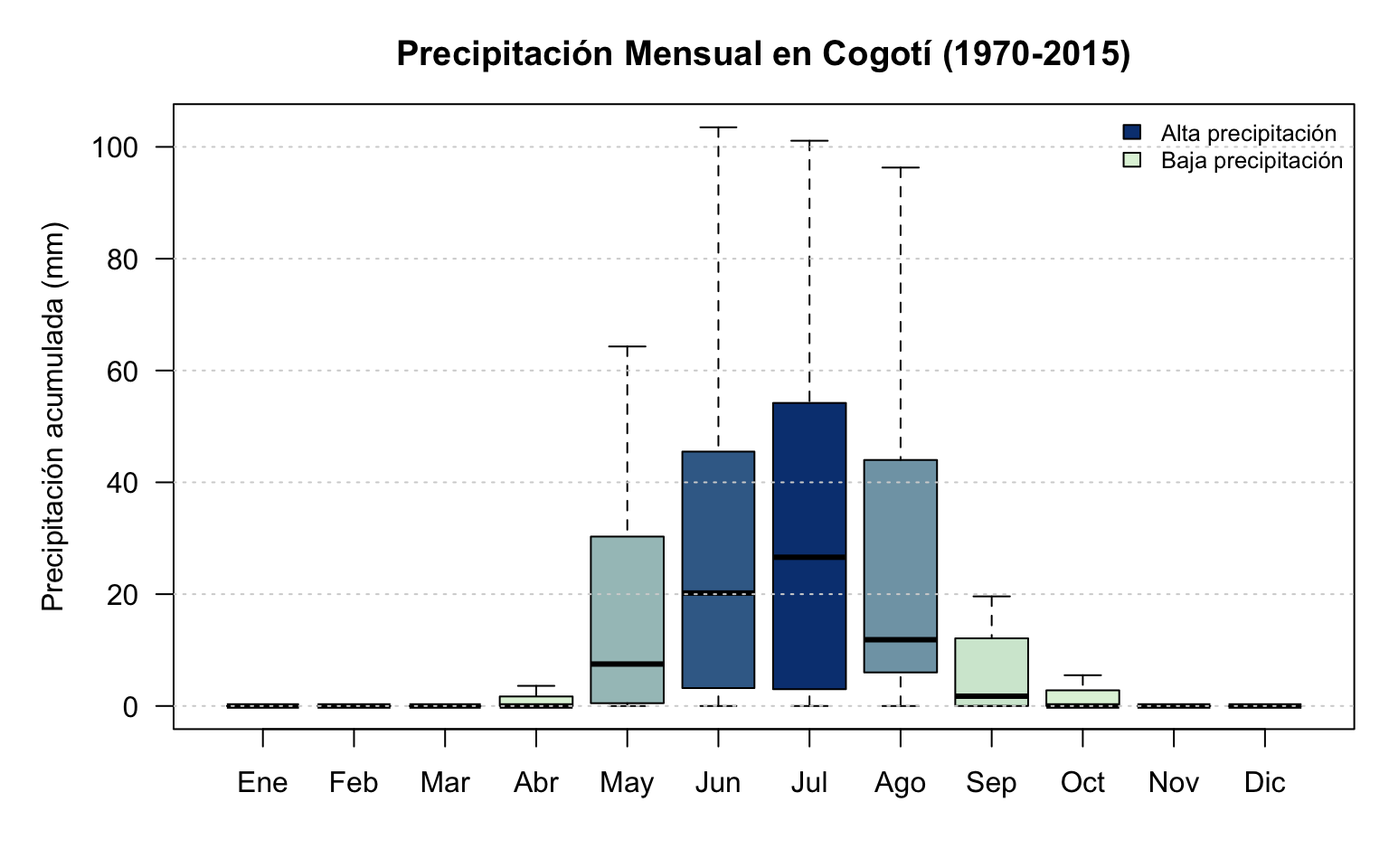
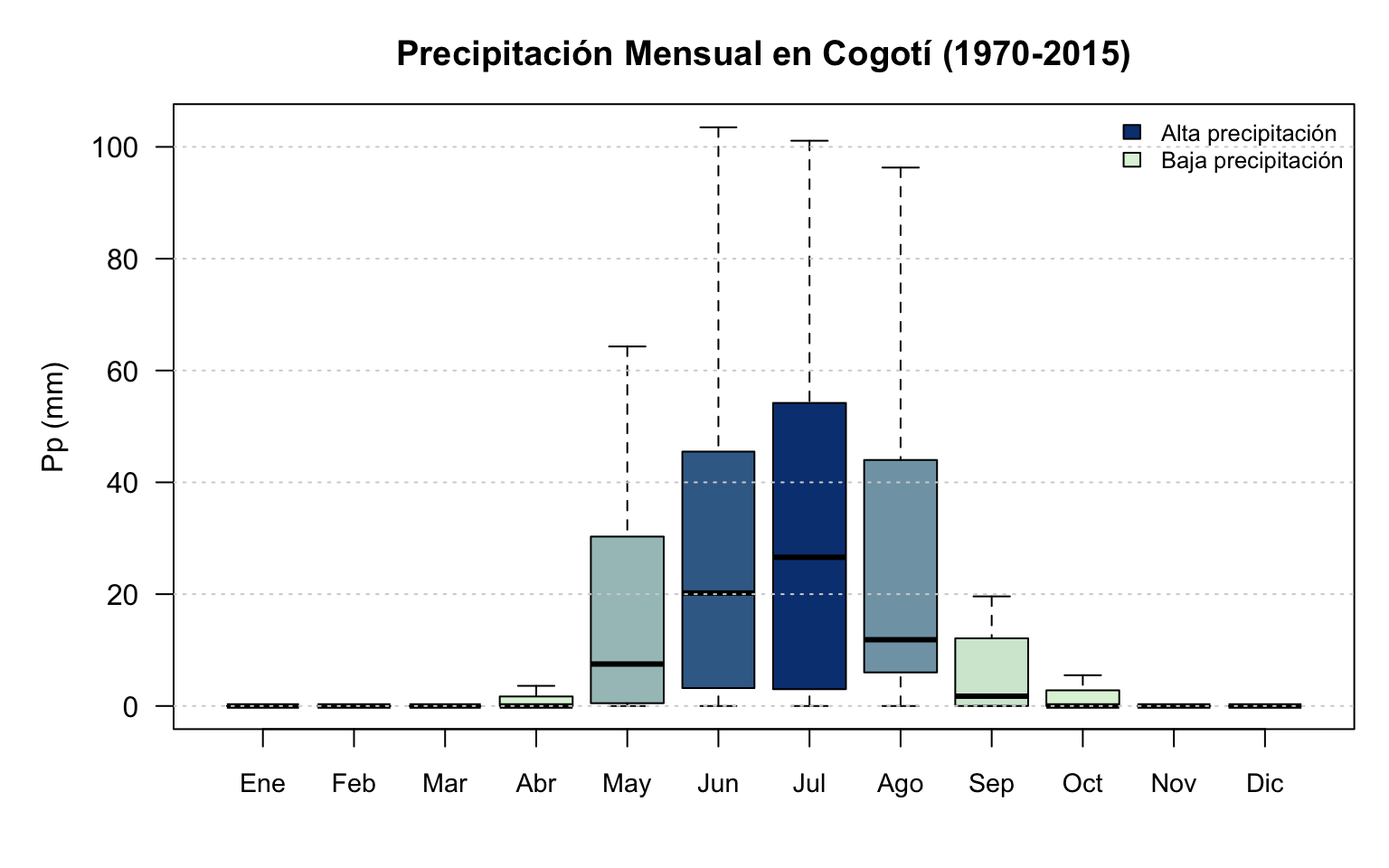
ajuste de graficos spei

diff --git a/docs/spei.html b/docs/spei.html
@@ -193,41 +193,36 @@ pre > code.sourceCode > span > a:first-child::before { text-decoration: underlin
 <span id="cb1-3"><a href="#cb1-3" aria-hidden="true" tabindex="-1"></a></span>
 <span id="cb1-4"><a href="#cb1-4" aria-hidden="true" tabindex="-1"></a><span class="co"># 1. Cargar paquetes</span></span>
 <span id="cb1-5"><a href="#cb1-5" aria-hidden="true" tabindex="-1"></a><span class="cf">if</span> (<span class="sc">!</span><span class="fu">require</span>(<span class="st">"pacman"</span>)) <span class="fu">install.packages</span>(<span class="st">"pacman"</span>)</span>
-<span id="cb1-6"><a href="#cb1-6" aria-hidden="true" tabindex="-1"></a>pacman<span class="sc">::</span><span class="fu">p_load</span>(tidyverse, SPEI, lubridate, fs, here, purrr)</span>
-<span id="cb1-7"><a href="#cb1-7" aria-hidden="true" tabindex="-1"></a></span>
-<span id="cb1-8"><a href="#cb1-8" aria-hidden="true" tabindex="-1"></a><span class="co"># 2. Definir Rutas de Datos Crudos</span></span>
-<span id="cb1-9"><a href="#cb1-9" aria-hidden="true" tabindex="-1"></a><span class="co"># Asumimos que los archivos están en "data/data_raw/" con nombres simplificados</span></span>
-<span id="cb1-10"><a href="#cb1-10" aria-hidden="true" tabindex="-1"></a><span class="co"># (Si usas los nombres largos originales, cámbialos aquí)</span></span>
-<span id="cb1-11"><a href="#cb1-11" aria-hidden="true" tabindex="-1"></a></span>
-<span id="cb1-12"><a href="#cb1-12" aria-hidden="true" tabindex="-1"></a><span class="co"># Estación Las Ramadas</span></span>
-<span id="cb1-13"><a href="#cb1-13" aria-hidden="true" tabindex="-1"></a>ruta_ram_pp   <span class="ot">&lt;-</span> here<span class="sc">::</span><span class="fu">here</span>(<span class="st">"data"</span>, <span class="st">"data_raw"</span>, <span class="st">"ramadas_pmen.csv"</span>)</span>
-<span id="cb1-14"><a href="#cb1-14" aria-hidden="true" tabindex="-1"></a>ruta_ram_tmax <span class="ot">&lt;-</span> here<span class="sc">::</span><span class="fu">here</span>(<span class="st">"data"</span>, <span class="st">"data_raw"</span>, <span class="st">"ramadas_tmax.csv"</span>)</span>
-<span id="cb1-15"><a href="#cb1-15" aria-hidden="true" tabindex="-1"></a>ruta_ram_tmin <span class="ot">&lt;-</span> here<span class="sc">::</span><span class="fu">here</span>(<span class="st">"data"</span>, <span class="st">"data_raw"</span>, <span class="st">"ramadas_tmin.csv"</span>)</span>
-<span id="cb1-16"><a href="#cb1-16" aria-hidden="true" tabindex="-1"></a></span>
-<span id="cb1-17"><a href="#cb1-17" aria-hidden="true" tabindex="-1"></a><span class="co"># Estación Cogotí</span></span>
-<span id="cb1-18"><a href="#cb1-18" aria-hidden="true" tabindex="-1"></a>ruta_cog_pp   <span class="ot">&lt;-</span> here<span class="sc">::</span><span class="fu">here</span>(<span class="st">"data"</span>, <span class="st">"data_raw"</span>, <span class="st">"cogoti_pmen.csv"</span>)</span>
-<span id="cb1-19"><a href="#cb1-19" aria-hidden="true" tabindex="-1"></a>ruta_cog_tmax <span class="ot">&lt;-</span> here<span class="sc">::</span><span class="fu">here</span>(<span class="st">"data"</span>, <span class="st">"data_raw"</span>, <span class="st">"cogoti_tmax.csv"</span>)</span>
-<span id="cb1-20"><a href="#cb1-20" aria-hidden="true" tabindex="-1"></a>ruta_cog_tmin <span class="ot">&lt;-</span> here<span class="sc">::</span><span class="fu">here</span>(<span class="st">"data"</span>, <span class="st">"data_raw"</span>, <span class="st">"cogoti_tmin.csv"</span>)</span>
+<span id="cb1-6"><a href="#cb1-6" aria-hidden="true" tabindex="-1"></a><span class="co"># Agregamos 'gridExtra' y 'grid' para poder guardar tablas como imágenes</span></span>
+<span id="cb1-7"><a href="#cb1-7" aria-hidden="true" tabindex="-1"></a>pacman<span class="sc">::</span><span class="fu">p_load</span>(tidyverse, SPEI, lubridate, fs, here, knitr, gridExtra, grid)</span>
+<span id="cb1-8"><a href="#cb1-8" aria-hidden="true" tabindex="-1"></a></span>
+<span id="cb1-9"><a href="#cb1-9" aria-hidden="true" tabindex="-1"></a><span class="co"># 2. Definir Rutas de Datos Crudos</span></span>
+<span id="cb1-10"><a href="#cb1-10" aria-hidden="true" tabindex="-1"></a>ruta_ram_pp   <span class="ot">&lt;-</span> here<span class="sc">::</span><span class="fu">here</span>(<span class="st">"data"</span>, <span class="st">"data_raw"</span>, <span class="st">"ramadas_pmen.csv"</span>)</span>
+<span id="cb1-11"><a href="#cb1-11" aria-hidden="true" tabindex="-1"></a>ruta_ram_tmax <span class="ot">&lt;-</span> here<span class="sc">::</span><span class="fu">here</span>(<span class="st">"data"</span>, <span class="st">"data_raw"</span>, <span class="st">"ramadas_tmax.csv"</span>)</span>
+<span id="cb1-12"><a href="#cb1-12" aria-hidden="true" tabindex="-1"></a>ruta_ram_tmin <span class="ot">&lt;-</span> here<span class="sc">::</span><span class="fu">here</span>(<span class="st">"data"</span>, <span class="st">"data_raw"</span>, <span class="st">"ramadas_tmin.csv"</span>)</span>
+<span id="cb1-13"><a href="#cb1-13" aria-hidden="true" tabindex="-1"></a></span>
+<span id="cb1-14"><a href="#cb1-14" aria-hidden="true" tabindex="-1"></a>ruta_cog_pp   <span class="ot">&lt;-</span> here<span class="sc">::</span><span class="fu">here</span>(<span class="st">"data"</span>, <span class="st">"data_raw"</span>, <span class="st">"cogoti_pmen.csv"</span>)</span>
+<span id="cb1-15"><a href="#cb1-15" aria-hidden="true" tabindex="-1"></a>ruta_cog_tmax <span class="ot">&lt;-</span> here<span class="sc">::</span><span class="fu">here</span>(<span class="st">"data"</span>, <span class="st">"data_raw"</span>, <span class="st">"cogoti_tmax.csv"</span>)</span>
+<span id="cb1-16"><a href="#cb1-16" aria-hidden="true" tabindex="-1"></a>ruta_cog_tmin <span class="ot">&lt;-</span> here<span class="sc">::</span><span class="fu">here</span>(<span class="st">"data"</span>, <span class="st">"data_raw"</span>, <span class="st">"cogoti_tmin.csv"</span>)</span>
+<span id="cb1-17"><a href="#cb1-17" aria-hidden="true" tabindex="-1"></a></span>
+<span id="cb1-18"><a href="#cb1-18" aria-hidden="true" tabindex="-1"></a><span class="co"># Rutas de Salida</span></span>
+<span id="cb1-19"><a href="#cb1-19" aria-hidden="true" tabindex="-1"></a>dir_figuras   <span class="ot">&lt;-</span> here<span class="sc">::</span><span class="fu">here</span>(<span class="st">"figuras"</span>)</span>
+<span id="cb1-20"><a href="#cb1-20" aria-hidden="true" tabindex="-1"></a>dir_data_proc <span class="ot">&lt;-</span> here<span class="sc">::</span><span class="fu">here</span>(<span class="st">"data"</span>, <span class="st">"data_procesada"</span>)</span>
 <span id="cb1-21"><a href="#cb1-21" aria-hidden="true" tabindex="-1"></a></span>
-<span id="cb1-22"><a href="#cb1-22" aria-hidden="true" tabindex="-1"></a><span class="co"># Rutas de Salida</span></span>
-<span id="cb1-23"><a href="#cb1-23" aria-hidden="true" tabindex="-1"></a>dir_figuras   <span class="ot">&lt;-</span> here<span class="sc">::</span><span class="fu">here</span>(<span class="st">"figuras"</span>)</span>
-<span id="cb1-24"><a href="#cb1-24" aria-hidden="true" tabindex="-1"></a>dir_data_proc <span class="ot">&lt;-</span> here<span class="sc">::</span><span class="fu">here</span>(<span class="st">"data"</span>, <span class="st">"data_procesada"</span>)</span>
+<span id="cb1-22"><a href="#cb1-22" aria-hidden="true" tabindex="-1"></a><span class="co"># 3. Verificación rápida</span></span>
+<span id="cb1-23"><a href="#cb1-23" aria-hidden="true" tabindex="-1"></a>archivos_requeridos <span class="ot">&lt;-</span> <span class="fu">c</span>(ruta_ram_pp, ruta_ram_tmax, ruta_ram_tmin, </span>
+<span id="cb1-24"><a href="#cb1-24" aria-hidden="true" tabindex="-1"></a>                         ruta_cog_pp, ruta_cog_tmax, ruta_cog_tmin)</span>
 <span id="cb1-25"><a href="#cb1-25" aria-hidden="true" tabindex="-1"></a></span>
-<span id="cb1-26"><a href="#cb1-26" aria-hidden="true" tabindex="-1"></a><span class="co"># 3. Verificación rápida</span></span>
-<span id="cb1-27"><a href="#cb1-27" aria-hidden="true" tabindex="-1"></a>archivos_requeridos <span class="ot">&lt;-</span> <span class="fu">c</span>(ruta_ram_pp, ruta_ram_tmax, ruta_ram_tmin, </span>
-<span id="cb1-28"><a href="#cb1-28" aria-hidden="true" tabindex="-1"></a>                         ruta_cog_pp, ruta_cog_tmax, ruta_cog_tmin)</span>
-<span id="cb1-29"><a href="#cb1-29" aria-hidden="true" tabindex="-1"></a></span>
-<span id="cb1-30"><a href="#cb1-30" aria-hidden="true" tabindex="-1"></a>existencia <span class="ot">&lt;-</span> <span class="fu">file.exists</span>(archivos_requeridos)</span>
-<span id="cb1-31"><a href="#cb1-31" aria-hidden="true" tabindex="-1"></a><span class="cf">if</span> (<span class="sc">!</span><span class="fu">all</span>(existencia)) {</span>
-<span id="cb1-32"><a href="#cb1-32" aria-hidden="true" tabindex="-1"></a>  <span class="fu">stop</span>(<span class="st">"ERROR: Faltan archivos en data/data_raw/. Verifica los nombres.</span><span class="sc">\n</span><span class="st">Faltan: "</span>, </span>
-<span id="cb1-33"><a href="#cb1-33" aria-hidden="true" tabindex="-1"></a>       <span class="fu">paste</span>(archivos_requeridos[<span class="sc">!</span>existencia], <span class="at">collapse =</span> <span class="st">"</span><span class="sc">\n</span><span class="st">"</span>))</span>
-<span id="cb1-34"><a href="#cb1-34" aria-hidden="true" tabindex="-1"></a>}</span>
-<span id="cb1-35"><a href="#cb1-35" aria-hidden="true" tabindex="-1"></a></span>
-<span id="cb1-36"><a href="#cb1-36" aria-hidden="true" tabindex="-1"></a><span class="co"># Crear carpetas de salida</span></span>
-<span id="cb1-37"><a href="#cb1-37" aria-hidden="true" tabindex="-1"></a><span class="cf">if</span> (<span class="sc">!</span><span class="fu">dir.exists</span>(dir_figuras)) <span class="fu">dir.create</span>(dir_figuras, <span class="at">recursive =</span> <span class="cn">TRUE</span>)</span>
-<span id="cb1-38"><a href="#cb1-38" aria-hidden="true" tabindex="-1"></a><span class="cf">if</span> (<span class="sc">!</span><span class="fu">dir.exists</span>(dir_data_proc)) <span class="fu">dir.create</span>(dir_data_proc, <span class="at">recursive =</span> <span class="cn">TRUE</span>)</span>
-<span id="cb1-39"><a href="#cb1-39" aria-hidden="true" tabindex="-1"></a></span>
-<span id="cb1-40"><a href="#cb1-40" aria-hidden="true" tabindex="-1"></a><span class="fu">message</span>(<span class="st">"Configuración exitosa. Archivos crudos encontrados."</span>)</span></code><button title="Copiar al portapapeles" class="code-copy-button"><i class="bi"></i></button></pre></div>
+<span id="cb1-26"><a href="#cb1-26" aria-hidden="true" tabindex="-1"></a><span class="cf">if</span> (<span class="sc">!</span><span class="fu">all</span>(<span class="fu">file.exists</span>(archivos_requeridos))) {</span>
+<span id="cb1-27"><a href="#cb1-27" aria-hidden="true" tabindex="-1"></a>  faltantes <span class="ot">&lt;-</span> archivos_requeridos[<span class="sc">!</span><span class="fu">file.exists</span>(archivos_requeridos)]</span>
+<span id="cb1-28"><a href="#cb1-28" aria-hidden="true" tabindex="-1"></a>  <span class="fu">stop</span>(<span class="st">"ERROR: Faltan archivos en data/data_raw/:</span><span class="sc">\n</span><span class="st">"</span>, <span class="fu">paste</span>(faltantes, <span class="at">collapse =</span> <span class="st">"</span><span class="sc">\n</span><span class="st">"</span>))</span>
+<span id="cb1-29"><a href="#cb1-29" aria-hidden="true" tabindex="-1"></a>}</span>
+<span id="cb1-30"><a href="#cb1-30" aria-hidden="true" tabindex="-1"></a></span>
+<span id="cb1-31"><a href="#cb1-31" aria-hidden="true" tabindex="-1"></a><span class="co"># Crear carpetas de salida</span></span>
+<span id="cb1-32"><a href="#cb1-32" aria-hidden="true" tabindex="-1"></a><span class="cf">if</span> (<span class="sc">!</span><span class="fu">dir.exists</span>(dir_figuras)) <span class="fu">dir.create</span>(dir_figuras, <span class="at">recursive =</span> <span class="cn">TRUE</span>)</span>
+<span id="cb1-33"><a href="#cb1-33" aria-hidden="true" tabindex="-1"></a><span class="cf">if</span> (<span class="sc">!</span><span class="fu">dir.exists</span>(dir_data_proc)) <span class="fu">dir.create</span>(dir_data_proc, <span class="at">recursive =</span> <span class="cn">TRUE</span>)</span>
+<span id="cb1-34"><a href="#cb1-34" aria-hidden="true" tabindex="-1"></a></span>
+<span id="cb1-35"><a href="#cb1-35" aria-hidden="true" tabindex="-1"></a><span class="fu">message</span>(<span class="st">"Configuración exitosa. Archivos encontrados."</span>)</span></code><button title="Copiar al portapapeles" class="code-copy-button"><i class="bi"></i></button></pre></div>
 </details>
 </div>
 </section>
@@ -237,54 +232,52 @@ pre > code.sourceCode > span > a:first-child::before { text-decoration: underlin
 <div class="cell">
 <details class="code-fold">
 <summary>Código</summary>
-<div class="sourceCode cell-code" id="cb2"><pre class="sourceCode r code-with-copy"><code class="sourceCode r"><span id="cb2-1"><a href="#cb2-1" aria-hidden="true" tabindex="-1"></a><span class="co"># Función auxiliar para leer y preparar cada archivo</span></span>
-<span id="cb2-2"><a href="#cb2-2" aria-hidden="true" tabindex="-1"></a><span class="co"># Lee el CSV, selecciona solo año/mes/valor y renombra la columna valor</span></span>
-<span id="cb2-3"><a href="#cb2-3" aria-hidden="true" tabindex="-1"></a>leer_variable <span class="ot">&lt;-</span> <span class="cf">function</span>(ruta, nombre_var) {</span>
-<span id="cb2-4"><a href="#cb2-4" aria-hidden="true" tabindex="-1"></a>  <span class="fu">read_csv</span>(ruta, <span class="at">show_col_types =</span> <span class="cn">FALSE</span>) <span class="sc">%&gt;%</span></span>
-<span id="cb2-5"><a href="#cb2-5" aria-hidden="true" tabindex="-1"></a>    <span class="fu">select</span>(agno, mes, valor) <span class="sc">%&gt;%</span></span>
-<span id="cb2-6"><a href="#cb2-6" aria-hidden="true" tabindex="-1"></a>    <span class="fu">rename</span>(<span class="sc">!!</span><span class="at">nombre_var :=</span> valor) <span class="co"># Renombra 'valor' a 'pmen', 'tmax' o 'tmin'</span></span>
-<span id="cb2-7"><a href="#cb2-7" aria-hidden="true" tabindex="-1"></a>}</span>
-<span id="cb2-8"><a href="#cb2-8" aria-hidden="true" tabindex="-1"></a></span>
-<span id="cb2-9"><a href="#cb2-9" aria-hidden="true" tabindex="-1"></a><span class="co"># --- PROCESAMIENTO LAS RAMADAS ---</span></span>
-<span id="cb2-10"><a href="#cb2-10" aria-hidden="true" tabindex="-1"></a>ram_pp   <span class="ot">&lt;-</span> <span class="fu">leer_variable</span>(ruta_ram_pp, <span class="st">"pmen"</span>)</span>
-<span id="cb2-11"><a href="#cb2-11" aria-hidden="true" tabindex="-1"></a>ram_tmax <span class="ot">&lt;-</span> <span class="fu">leer_variable</span>(ruta_ram_tmax, <span class="st">"tmax"</span>)</span>
-<span id="cb2-12"><a href="#cb2-12" aria-hidden="true" tabindex="-1"></a>ram_tmin <span class="ot">&lt;-</span> <span class="fu">leer_variable</span>(ruta_ram_tmin, <span class="st">"tmin"</span>)</span>
-<span id="cb2-13"><a href="#cb2-13" aria-hidden="true" tabindex="-1"></a></span>
-<span id="cb2-14"><a href="#cb2-14" aria-hidden="true" tabindex="-1"></a><span class="co"># Unir las 3 variables (full_join para no perder meses si falta algún dato)</span></span>
-<span id="cb2-15"><a href="#cb2-15" aria-hidden="true" tabindex="-1"></a>df_ramadas <span class="ot">&lt;-</span> <span class="fu">list</span>(ram_pp, ram_tmax, ram_tmin) <span class="sc">%&gt;%</span></span>
-<span id="cb2-16"><a href="#cb2-16" aria-hidden="true" tabindex="-1"></a>  <span class="fu">reduce</span>(full_join, <span class="at">by =</span> <span class="fu">c</span>(<span class="st">"agno"</span>, <span class="st">"mes"</span>)) <span class="sc">%&gt;%</span></span>
-<span id="cb2-17"><a href="#cb2-17" aria-hidden="true" tabindex="-1"></a>  <span class="fu">mutate</span>(<span class="at">estacion =</span> <span class="st">"Las Ramadas"</span>)</span>
-<span id="cb2-18"><a href="#cb2-18" aria-hidden="true" tabindex="-1"></a></span>
-<span id="cb2-19"><a href="#cb2-19" aria-hidden="true" tabindex="-1"></a><span class="co"># --- PROCESAMIENTO COGOTÍ ---</span></span>
-<span id="cb2-20"><a href="#cb2-20" aria-hidden="true" tabindex="-1"></a>cog_pp   <span class="ot">&lt;-</span> <span class="fu">leer_variable</span>(ruta_cog_pp, <span class="st">"pmen"</span>)</span>
-<span id="cb2-21"><a href="#cb2-21" aria-hidden="true" tabindex="-1"></a>cog_tmax <span class="ot">&lt;-</span> <span class="fu">leer_variable</span>(ruta_cog_tmax, <span class="st">"tmax"</span>)</span>
-<span id="cb2-22"><a href="#cb2-22" aria-hidden="true" tabindex="-1"></a>cog_tmin <span class="ot">&lt;-</span> <span class="fu">leer_variable</span>(ruta_cog_tmin, <span class="st">"tmin"</span>)</span>
-<span id="cb2-23"><a href="#cb2-23" aria-hidden="true" tabindex="-1"></a></span>
-<span id="cb2-24"><a href="#cb2-24" aria-hidden="true" tabindex="-1"></a>df_cogoti <span class="ot">&lt;-</span> <span class="fu">list</span>(cog_pp, cog_tmax, cog_tmin) <span class="sc">%&gt;%</span></span>
-<span id="cb2-25"><a href="#cb2-25" aria-hidden="true" tabindex="-1"></a>  <span class="fu">reduce</span>(full_join, <span class="at">by =</span> <span class="fu">c</span>(<span class="st">"agno"</span>, <span class="st">"mes"</span>)) <span class="sc">%&gt;%</span></span>
-<span id="cb2-26"><a href="#cb2-26" aria-hidden="true" tabindex="-1"></a>  <span class="fu">mutate</span>(<span class="at">estacion =</span> <span class="st">"Cogotí"</span>)</span>
-<span id="cb2-27"><a href="#cb2-27" aria-hidden="true" tabindex="-1"></a></span>
-<span id="cb2-28"><a href="#cb2-28" aria-hidden="true" tabindex="-1"></a><span class="co"># - --- UNIFICACIÓN Y CÁLCULOS ---</span></span>
-<span id="cb2-29"><a href="#cb2-29" aria-hidden="true" tabindex="-1"></a>datos <span class="ot">&lt;-</span> <span class="fu">bind_rows</span>(df_ramadas, df_cogoti) <span class="sc">%&gt;%</span></span>
-<span id="cb2-30"><a href="#cb2-30" aria-hidden="true" tabindex="-1"></a>  <span class="fu">mutate</span>(<span class="at">fecha =</span> <span class="fu">make_date</span>(agno, mes, <span class="dv">1</span>)) <span class="sc">%&gt;%</span></span>
-<span id="cb2-31"><a href="#cb2-31" aria-hidden="true" tabindex="-1"></a>  <span class="co"># --- CORRECCIÓN CLAVE AQUÍ ---</span></span>
-<span id="cb2-32"><a href="#cb2-32" aria-hidden="true" tabindex="-1"></a>  <span class="co"># Eliminamos filas sin temperatura ANTES de calcular hargreaves</span></span>
-<span id="cb2-33"><a href="#cb2-33" aria-hidden="true" tabindex="-1"></a>  <span class="fu">drop_na</span>(tmax, tmin) <span class="sc">%&gt;%</span></span>
-<span id="cb2-34"><a href="#cb2-34" aria-hidden="true" tabindex="-1"></a>  <span class="fu">mutate</span>(</span>
-<span id="cb2-35"><a href="#cb2-35" aria-hidden="true" tabindex="-1"></a>    <span class="co"># Ahora sí podemos calcular ETP sin errores</span></span>
-<span id="cb2-36"><a href="#cb2-36" aria-hidden="true" tabindex="-1"></a>    <span class="at">etp =</span> <span class="fu">hargreaves</span>(tmin, tmax, <span class="at">lat =</span> <span class="sc">-</span><span class="fl">31.0358</span>),</span>
-<span id="cb2-37"><a href="#cb2-37" aria-hidden="true" tabindex="-1"></a>    <span class="at">bal =</span> pmen <span class="sc">-</span> etp</span>
-<span id="cb2-38"><a href="#cb2-38" aria-hidden="true" tabindex="-1"></a>  ) <span class="sc">%&gt;%</span></span>
-<span id="cb2-39"><a href="#cb2-39" aria-hidden="true" tabindex="-1"></a>  <span class="co"># Limpiamos si falta precipitación o balance final</span></span>
-<span id="cb2-40"><a href="#cb2-40" aria-hidden="true" tabindex="-1"></a>  <span class="fu">drop_na</span>(bal) <span class="sc">%&gt;%</span></span>
-<span id="cb2-41"><a href="#cb2-41" aria-hidden="true" tabindex="-1"></a>  <span class="fu">arrange</span>(estacion, fecha)</span></code><button title="Copiar al portapapeles" class="code-copy-button"><i class="bi"></i></button></pre></div>
+<div class="sourceCode cell-code" id="cb2"><pre class="sourceCode r code-with-copy"><code class="sourceCode r"><span id="cb2-1"><a href="#cb2-1" aria-hidden="true" tabindex="-1"></a><span class="co"># Función auxiliar para leer</span></span>
+<span id="cb2-2"><a href="#cb2-2" aria-hidden="true" tabindex="-1"></a>leer_variable <span class="ot">&lt;-</span> <span class="cf">function</span>(ruta, nombre_var) {</span>
+<span id="cb2-3"><a href="#cb2-3" aria-hidden="true" tabindex="-1"></a>  <span class="fu">read_csv</span>(ruta, <span class="at">show_col_types =</span> <span class="cn">FALSE</span>) <span class="sc">%&gt;%</span></span>
+<span id="cb2-4"><a href="#cb2-4" aria-hidden="true" tabindex="-1"></a>    <span class="fu">select</span>(agno, mes, valor) <span class="sc">%&gt;%</span></span>
+<span id="cb2-5"><a href="#cb2-5" aria-hidden="true" tabindex="-1"></a>    <span class="fu">rename</span>(<span class="sc">!!</span><span class="at">nombre_var :=</span> valor)</span>
+<span id="cb2-6"><a href="#cb2-6" aria-hidden="true" tabindex="-1"></a>}</span>
+<span id="cb2-7"><a href="#cb2-7" aria-hidden="true" tabindex="-1"></a></span>
+<span id="cb2-8"><a href="#cb2-8" aria-hidden="true" tabindex="-1"></a><span class="co"># --- PROCESAMIENTO LAS RAMADAS ---</span></span>
+<span id="cb2-9"><a href="#cb2-9" aria-hidden="true" tabindex="-1"></a>ram_pp   <span class="ot">&lt;-</span> <span class="fu">leer_variable</span>(ruta_ram_pp, <span class="st">"pmen"</span>)</span>
+<span id="cb2-10"><a href="#cb2-10" aria-hidden="true" tabindex="-1"></a>ram_tmax <span class="ot">&lt;-</span> <span class="fu">leer_variable</span>(ruta_ram_tmax, <span class="st">"tmax"</span>)</span>
+<span id="cb2-11"><a href="#cb2-11" aria-hidden="true" tabindex="-1"></a>ram_tmin <span class="ot">&lt;-</span> <span class="fu">leer_variable</span>(ruta_ram_tmin, <span class="st">"tmin"</span>)</span>
+<span id="cb2-12"><a href="#cb2-12" aria-hidden="true" tabindex="-1"></a></span>
+<span id="cb2-13"><a href="#cb2-13" aria-hidden="true" tabindex="-1"></a><span class="co"># Unimos por año y mes</span></span>
+<span id="cb2-14"><a href="#cb2-14" aria-hidden="true" tabindex="-1"></a>df_ramadas <span class="ot">&lt;-</span> <span class="fu">list</span>(ram_pp, ram_tmax, ram_tmin) <span class="sc">%&gt;%</span></span>
+<span id="cb2-15"><a href="#cb2-15" aria-hidden="true" tabindex="-1"></a>  <span class="fu">reduce</span>(full_join, <span class="at">by =</span> <span class="fu">c</span>(<span class="st">"agno"</span>, <span class="st">"mes"</span>)) <span class="sc">%&gt;%</span></span>
+<span id="cb2-16"><a href="#cb2-16" aria-hidden="true" tabindex="-1"></a>  <span class="fu">mutate</span>(<span class="at">estacion =</span> <span class="st">"Las Ramadas"</span>)</span>
+<span id="cb2-17"><a href="#cb2-17" aria-hidden="true" tabindex="-1"></a></span>
+<span id="cb2-18"><a href="#cb2-18" aria-hidden="true" tabindex="-1"></a><span class="co"># --- PROCESAMIENTO COGOTÍ ---</span></span>
+<span id="cb2-19"><a href="#cb2-19" aria-hidden="true" tabindex="-1"></a>cog_pp   <span class="ot">&lt;-</span> <span class="fu">leer_variable</span>(ruta_cog_pp, <span class="st">"pmen"</span>)</span>
+<span id="cb2-20"><a href="#cb2-20" aria-hidden="true" tabindex="-1"></a>cog_tmax <span class="ot">&lt;-</span> <span class="fu">leer_variable</span>(ruta_cog_tmax, <span class="st">"tmax"</span>)</span>
+<span id="cb2-21"><a href="#cb2-21" aria-hidden="true" tabindex="-1"></a>cog_tmin <span class="ot">&lt;-</span> <span class="fu">leer_variable</span>(ruta_cog_tmin, <span class="st">"tmin"</span>)</span>
+<span id="cb2-22"><a href="#cb2-22" aria-hidden="true" tabindex="-1"></a></span>
+<span id="cb2-23"><a href="#cb2-23" aria-hidden="true" tabindex="-1"></a>df_cogoti <span class="ot">&lt;-</span> <span class="fu">list</span>(cog_pp, cog_tmax, cog_tmin) <span class="sc">%&gt;%</span></span>
+<span id="cb2-24"><a href="#cb2-24" aria-hidden="true" tabindex="-1"></a>  <span class="fu">reduce</span>(full_join, <span class="at">by =</span> <span class="fu">c</span>(<span class="st">"agno"</span>, <span class="st">"mes"</span>)) <span class="sc">%&gt;%</span></span>
+<span id="cb2-25"><a href="#cb2-25" aria-hidden="true" tabindex="-1"></a>  <span class="fu">mutate</span>(<span class="at">estacion =</span> <span class="st">"Cogotí"</span>)</span>
+<span id="cb2-26"><a href="#cb2-26" aria-hidden="true" tabindex="-1"></a></span>
+<span id="cb2-27"><a href="#cb2-27" aria-hidden="true" tabindex="-1"></a><span class="co"># --- UNIFICACIÓN Y CÁLCULOS ---</span></span>
+<span id="cb2-28"><a href="#cb2-28" aria-hidden="true" tabindex="-1"></a>datos <span class="ot">&lt;-</span> <span class="fu">bind_rows</span>(df_ramadas, df_cogoti) <span class="sc">%&gt;%</span></span>
+<span id="cb2-29"><a href="#cb2-29" aria-hidden="true" tabindex="-1"></a>  <span class="fu">mutate</span>(<span class="at">fecha =</span> <span class="fu">make_date</span>(agno, mes, <span class="dv">1</span>)) <span class="sc">%&gt;%</span></span>
+<span id="cb2-30"><a href="#cb2-30" aria-hidden="true" tabindex="-1"></a>  <span class="co"># Eliminamos filas sin temperatura ANTES de calcular hargreaves</span></span>
+<span id="cb2-31"><a href="#cb2-31" aria-hidden="true" tabindex="-1"></a>  <span class="fu">drop_na</span>(tmax, tmin) <span class="sc">%&gt;%</span></span>
+<span id="cb2-32"><a href="#cb2-32" aria-hidden="true" tabindex="-1"></a>  <span class="fu">mutate</span>(</span>
+<span id="cb2-33"><a href="#cb2-33" aria-hidden="true" tabindex="-1"></a>    <span class="co"># Ahora sí podemos calcular ETP sin errores</span></span>
+<span id="cb2-34"><a href="#cb2-34" aria-hidden="true" tabindex="-1"></a>    <span class="at">etp =</span> <span class="fu">hargreaves</span>(tmin, tmax, <span class="at">lat =</span> <span class="sc">-</span><span class="fl">31.0358</span>),</span>
+<span id="cb2-35"><a href="#cb2-35" aria-hidden="true" tabindex="-1"></a>    <span class="at">bal =</span> pmen <span class="sc">-</span> etp</span>
+<span id="cb2-36"><a href="#cb2-36" aria-hidden="true" tabindex="-1"></a>  ) <span class="sc">%&gt;%</span></span>
+<span id="cb2-37"><a href="#cb2-37" aria-hidden="true" tabindex="-1"></a>  <span class="co"># Limpiamos si falta precipitación o balance final</span></span>
+<span id="cb2-38"><a href="#cb2-38" aria-hidden="true" tabindex="-1"></a>  <span class="fu">drop_na</span>(bal) <span class="sc">%&gt;%</span></span>
+<span id="cb2-39"><a href="#cb2-39" aria-hidden="true" tabindex="-1"></a>  <span class="fu">arrange</span>(estacion, fecha)</span></code><button title="Copiar al portapapeles" class="code-copy-button"><i class="bi"></i></button></pre></div>
 </details>
 <div class="cell-output cell-output-stdout">
 <pre><code>[1] "Calculating reference evapotranspiration using the Hargreaves method. Using latitude (`lat`) to estimate extraterrestrial radiation. Checking for missing values (`NA`): all the data must be complete. Input type is vector. Assuming the data are monthly time series starting in January, all regular (non-leap) years."</code></pre>
 </div>
 <details class="code-fold">
 <summary>Código</summary>
-<div class="sourceCode cell-code" id="cb4"><pre class="sourceCode r code-with-copy"><code class="sourceCode r"><span id="cb4-1"><a href="#cb4-1" aria-hidden="true" tabindex="-1"></a><span class="co"># Guardar CSV procesado completo</span></span>
+<div class="sourceCode cell-code" id="cb4"><pre class="sourceCode r code-with-copy"><code class="sourceCode r"><span id="cb4-1"><a href="#cb4-1" aria-hidden="true" tabindex="-1"></a><span class="co"># Guardar CSV procesado</span></span>
 <span id="cb4-2"><a href="#cb4-2" aria-hidden="true" tabindex="-1"></a><span class="fu">write_csv</span>(datos, <span class="fu">path</span>(dir_data_proc, <span class="st">"datos_procesados_unificados.csv"</span>))</span>
 <span id="cb4-3"><a href="#cb4-3" aria-hidden="true" tabindex="-1"></a></span>
 <span id="cb4-4"><a href="#cb4-4" aria-hidden="true" tabindex="-1"></a><span class="co"># --- CÁLCULO DE SPEI ---</span></span>
@@ -306,8 +299,7 @@ pre > code.sourceCode > span > a:first-child::before { text-decoration: underlin
 </div>
 <details class="code-fold">
 <summary>Código</summary>
-<div class="sourceCode cell-code" id="cb6"><pre class="sourceCode r code-with-copy"><code class="sourceCode r"><span id="cb6-1"><a href="#cb6-1" aria-hidden="true" tabindex="-1"></a><span class="co"># Mostrar un resumen</span></span>
-<span id="cb6-2"><a href="#cb6-2" aria-hidden="true" tabindex="-1"></a><span class="fu">glimpse</span>(datos_spei)</span></code><button title="Copiar al portapapeles" class="code-copy-button"><i class="bi"></i></button></pre></div>
+<div class="sourceCode cell-code" id="cb6"><pre class="sourceCode r code-with-copy"><code class="sourceCode r"><span id="cb6-1"><a href="#cb6-1" aria-hidden="true" tabindex="-1"></a><span class="fu">glimpse</span>(datos_spei)</span></code><button title="Copiar al portapapeles" class="code-copy-button"><i class="bi"></i></button></pre></div>
 </details>
 <div class="cell-output cell-output-stdout">
 <pre><code>Rows: 1,165
@@ -328,7 +320,7 @@ $ spei_03  &lt;dbl&gt; NA, NA, -0.07306118, 0.24514050, -0.38907950, 0.88506499,
 </section>
 <section id="visualización-de-precipitación-mensual" class="level2">
 <h2 class="anchored" data-anchor-id="visualización-de-precipitación-mensual">3. Visualización de precipitación mensual</h2>
-<p>Análisis de la distribución de lluvias para la estación Las Ramadas (1970-2015).</p>
+<p>Análisis de la distribución de lluvias para ambas estaciones (1970-2015).</p>
 <div class="cell">
 <details class="code-fold">
 <summary>Código</summary>
@@ -355,40 +347,42 @@ $ spei_03  &lt;dbl&gt; NA, NA, -0.07306118, 0.24514050, -0.38907950, 0.88506499,
 <span id="cb8-21"><a href="#cb8-21" aria-hidden="true" tabindex="-1"></a>  </span>
 <span id="cb8-22"><a href="#cb8-22" aria-hidden="true" tabindex="-1"></a>  meses_esp <span class="ot">&lt;-</span> <span class="fu">c</span>(<span class="st">"Ene"</span>, <span class="st">"Feb"</span>, <span class="st">"Mar"</span>, <span class="st">"Abr"</span>, <span class="st">"May"</span>, <span class="st">"Jun"</span>, <span class="st">"Jul"</span>, <span class="st">"Ago"</span>, <span class="st">"Sep"</span>, <span class="st">"Oct"</span>, <span class="st">"Nov"</span>, <span class="st">"Dic"</span>)</span>
 <span id="cb8-23"><a href="#cb8-23" aria-hidden="true" tabindex="-1"></a>  </span>
-<span id="cb8-24"><a href="#cb8-24" aria-hidden="true" tabindex="-1"></a>  <span class="co"># Función interna de dibujo (Estilo ORIGINAL)</span></span>
+<span id="cb8-24"><a href="#cb8-24" aria-hidden="true" tabindex="-1"></a>  <span class="co"># Función interna de dibujo</span></span>
 <span id="cb8-25"><a href="#cb8-25" aria-hidden="true" tabindex="-1"></a>  dibujar <span class="ot">&lt;-</span> <span class="cf">function</span>() {</span>
 <span id="cb8-26"><a href="#cb8-26" aria-hidden="true" tabindex="-1"></a>    <span class="fu">par</span>(<span class="at">mar =</span> <span class="fu">c</span>(<span class="dv">4</span>, <span class="dv">5</span>, <span class="dv">3</span>, <span class="dv">1</span>))</span>
-<span id="cb8-27"><a href="#cb8-27" aria-hidden="true" tabindex="-1"></a>    </span>
-<span id="cb8-28"><a href="#cb8-28" aria-hidden="true" tabindex="-1"></a>    <span class="co"># Boxplot estándar (sin eje manual)</span></span>
-<span id="cb8-29"><a href="#cb8-29" aria-hidden="true" tabindex="-1"></a>    <span class="fu">boxplot</span>(pmen <span class="sc">~</span> <span class="fu">factor</span>(mes, <span class="at">levels=</span><span class="dv">1</span><span class="sc">:</span><span class="dv">12</span>, <span class="at">labels =</span> meses_esp), <span class="at">data =</span> df_box,</span>
-<span id="cb8-30"><a href="#cb8-30" aria-hidden="true" tabindex="-1"></a>            <span class="at">col =</span> colores, <span class="at">outline =</span> <span class="cn">FALSE</span>, </span>
-<span id="cb8-31"><a href="#cb8-31" aria-hidden="true" tabindex="-1"></a>            <span class="at">main =</span> <span class="fu">paste</span>(<span class="st">"Precipitación Mensual en"</span>, nombre_estacion, <span class="st">"(1970-2015)"</span>),</span>
-<span id="cb8-32"><a href="#cb8-32" aria-hidden="true" tabindex="-1"></a>            <span class="at">ylab =</span> <span class="st">"Precipitación acumulada (mm)"</span>, </span>
-<span id="cb8-33"><a href="#cb8-33" aria-hidden="true" tabindex="-1"></a>            <span class="at">xlab =</span> <span class="st">""</span>, <span class="co"># Dejamos esto vacío para que no salga el texto técnico "factor(mes...)"</span></span>
-<span id="cb8-34"><a href="#cb8-34" aria-hidden="true" tabindex="-1"></a>            <span class="at">las =</span> <span class="dv">1</span>, <span class="at">varwidth =</span> <span class="cn">TRUE</span>)</span>
-<span id="cb8-35"><a href="#cb8-35" aria-hidden="true" tabindex="-1"></a>            </span>
-<span id="cb8-36"><a href="#cb8-36" aria-hidden="true" tabindex="-1"></a>    <span class="fu">grid</span>(<span class="at">nx =</span> <span class="cn">NA</span>, <span class="at">ny =</span> <span class="cn">NULL</span>, <span class="at">lty =</span> <span class="dv">3</span>)</span>
-<span id="cb8-37"><a href="#cb8-37" aria-hidden="true" tabindex="-1"></a>    <span class="fu">legend</span>(<span class="st">"topright"</span>, <span class="at">legend=</span><span class="fu">c</span>(<span class="st">"Alta precipitación"</span>,<span class="st">"Baja precipitación"</span>), <span class="at">fill=</span><span class="fu">c</span>(paleta[<span class="dv">100</span>], paleta[<span class="dv">1</span>]), <span class="at">bty=</span><span class="st">"n"</span>, <span class="at">cex=</span><span class="fl">0.8</span>)</span>
-<span id="cb8-38"><a href="#cb8-38" aria-hidden="true" tabindex="-1"></a>  }</span>
-<span id="cb8-39"><a href="#cb8-39" aria-hidden="true" tabindex="-1"></a>  </span>
-<span id="cb8-40"><a href="#cb8-40" aria-hidden="true" tabindex="-1"></a>  <span class="co"># A. Mostrar en el documento HTML</span></span>
-<span id="cb8-41"><a href="#cb8-41" aria-hidden="true" tabindex="-1"></a>  <span class="fu">dibujar</span>()</span>
-<span id="cb8-42"><a href="#cb8-42" aria-hidden="true" tabindex="-1"></a>  </span>
-<span id="cb8-43"><a href="#cb8-43" aria-hidden="true" tabindex="-1"></a>  <span class="co"># B. Guardar como PNG</span></span>
-<span id="cb8-44"><a href="#cb8-44" aria-hidden="true" tabindex="-1"></a>  <span class="co"># Limpiar nombre (Ej: "Las Ramadas" -&gt; "las_ramadas")</span></span>
-<span id="cb8-45"><a href="#cb8-45" aria-hidden="true" tabindex="-1"></a>  nombre_limpio <span class="ot">&lt;-</span> <span class="fu">tolower</span>(<span class="fu">gsub</span>(<span class="st">" "</span>, <span class="st">"_"</span>, nombre_estacion)) </span>
-<span id="cb8-46"><a href="#cb8-46" aria-hidden="true" tabindex="-1"></a>  <span class="co"># Eliminar acentos para el nombre del archivo (opcional, pero recomendado)</span></span>
-<span id="cb8-47"><a href="#cb8-47" aria-hidden="true" tabindex="-1"></a>  nombre_limpio <span class="ot">&lt;-</span> <span class="fu">iconv</span>(nombre_limpio, <span class="at">to=</span><span class="st">"ASCII//TRANSLIT"</span>)</span>
-<span id="cb8-48"><a href="#cb8-48" aria-hidden="true" tabindex="-1"></a>  </span>
-<span id="cb8-49"><a href="#cb8-49" aria-hidden="true" tabindex="-1"></a>  nombre_archivo <span class="ot">&lt;-</span> <span class="fu">paste0</span>(<span class="st">"boxplot_"</span>, nombre_limpio, <span class="st">".png"</span>)</span>
+<span id="cb8-27"><a href="#cb8-27" aria-hidden="true" tabindex="-1"></a>    <span class="fu">boxplot</span>(pmen <span class="sc">~</span> <span class="fu">factor</span>(mes, <span class="at">levels=</span><span class="dv">1</span><span class="sc">:</span><span class="dv">12</span>, <span class="at">labels =</span> meses_esp), <span class="at">data =</span> df_box,</span>
+<span id="cb8-28"><a href="#cb8-28" aria-hidden="true" tabindex="-1"></a>            <span class="at">col =</span> colores, <span class="at">outline =</span> <span class="cn">FALSE</span>, </span>
+<span id="cb8-29"><a href="#cb8-29" aria-hidden="true" tabindex="-1"></a>            <span class="at">main =</span> <span class="fu">paste</span>(<span class="st">"Precipitación Mensual en"</span>, nombre_estacion, <span class="st">"(1970-2015)"</span>),</span>
+<span id="cb8-30"><a href="#cb8-30" aria-hidden="true" tabindex="-1"></a>            <span class="at">ylab =</span> <span class="st">"Pp (mm)"</span>, </span>
+<span id="cb8-31"><a href="#cb8-31" aria-hidden="true" tabindex="-1"></a>            <span class="at">xlab =</span> <span class="st">""</span>, <span class="co"># Eliminamos etiqueta por defecto</span></span>
+<span id="cb8-32"><a href="#cb8-32" aria-hidden="true" tabindex="-1"></a>            <span class="at">xaxt =</span> <span class="st">"n"</span>, <span class="co"># Apagamos eje automático</span></span>
+<span id="cb8-33"><a href="#cb8-33" aria-hidden="true" tabindex="-1"></a>            <span class="at">las =</span> <span class="dv">1</span>, <span class="at">varwidth =</span> <span class="cn">TRUE</span>)</span>
+<span id="cb8-34"><a href="#cb8-34" aria-hidden="true" tabindex="-1"></a>            </span>
+<span id="cb8-35"><a href="#cb8-35" aria-hidden="true" tabindex="-1"></a>    <span class="co"># Dibujamos eje X manual para asegurar que salgan todos los meses</span></span>
+<span id="cb8-36"><a href="#cb8-36" aria-hidden="true" tabindex="-1"></a>    <span class="fu">axis</span>(<span class="dv">1</span>, <span class="at">at =</span> <span class="dv">1</span><span class="sc">:</span><span class="dv">12</span>, <span class="at">labels =</span> meses_esp, <span class="at">las =</span> <span class="dv">1</span>, <span class="at">cex.axis =</span> <span class="fl">0.9</span>)</span>
+<span id="cb8-37"><a href="#cb8-37" aria-hidden="true" tabindex="-1"></a>    </span>
+<span id="cb8-38"><a href="#cb8-38" aria-hidden="true" tabindex="-1"></a>    <span class="fu">grid</span>(<span class="at">nx =</span> <span class="cn">NA</span>, <span class="at">ny =</span> <span class="cn">NULL</span>, <span class="at">lty =</span> <span class="dv">3</span>)</span>
+<span id="cb8-39"><a href="#cb8-39" aria-hidden="true" tabindex="-1"></a>    <span class="fu">legend</span>(<span class="st">"topright"</span>, <span class="at">legend=</span><span class="fu">c</span>(<span class="st">"Alta precipitación"</span>,<span class="st">"Baja precipitación"</span>), <span class="at">fill=</span><span class="fu">c</span>(paleta[<span class="dv">100</span>], paleta[<span class="dv">1</span>]), <span class="at">bty=</span><span class="st">"n"</span>, <span class="at">cex=</span><span class="fl">0.8</span>)</span>
+<span id="cb8-40"><a href="#cb8-40" aria-hidden="true" tabindex="-1"></a>  }</span>
+<span id="cb8-41"><a href="#cb8-41" aria-hidden="true" tabindex="-1"></a>  </span>
+<span id="cb8-42"><a href="#cb8-42" aria-hidden="true" tabindex="-1"></a>  <span class="co"># A. Mostrar en el documento HTML</span></span>
+<span id="cb8-43"><a href="#cb8-43" aria-hidden="true" tabindex="-1"></a>  <span class="fu">dibujar</span>()</span>
+<span id="cb8-44"><a href="#cb8-44" aria-hidden="true" tabindex="-1"></a>  </span>
+<span id="cb8-45"><a href="#cb8-45" aria-hidden="true" tabindex="-1"></a>  <span class="co"># B. Guardar como PNG</span></span>
+<span id="cb8-46"><a href="#cb8-46" aria-hidden="true" tabindex="-1"></a>  <span class="co"># Limpiar nombre (Ej: "Las Ramadas" -&gt; "las_ramadas")</span></span>
+<span id="cb8-47"><a href="#cb8-47" aria-hidden="true" tabindex="-1"></a>  nombre_limpio <span class="ot">&lt;-</span> <span class="fu">tolower</span>(<span class="fu">gsub</span>(<span class="st">" "</span>, <span class="st">"_"</span>, nombre_estacion)) </span>
+<span id="cb8-48"><a href="#cb8-48" aria-hidden="true" tabindex="-1"></a>  <span class="co"># Eliminar acentos para el nombre del archivo</span></span>
+<span id="cb8-49"><a href="#cb8-49" aria-hidden="true" tabindex="-1"></a>  nombre_limpio <span class="ot">&lt;-</span> <span class="fu">iconv</span>(nombre_limpio, <span class="at">to=</span><span class="st">"ASCII//TRANSLIT"</span>)</span>
 <span id="cb8-50"><a href="#cb8-50" aria-hidden="true" tabindex="-1"></a>  </span>
-<span id="cb8-51"><a href="#cb8-51" aria-hidden="true" tabindex="-1"></a>  <span class="fu">png</span>(<span class="fu">path</span>(dir_figuras, nombre_archivo), <span class="at">width =</span> <span class="dv">800</span>, <span class="at">height =</span> <span class="dv">500</span>)</span>
-<span id="cb8-52"><a href="#cb8-52" aria-hidden="true" tabindex="-1"></a>  <span class="fu">dibujar</span>()</span>
-<span id="cb8-53"><a href="#cb8-53" aria-hidden="true" tabindex="-1"></a>  <span class="fu">dev.off</span>()</span>
-<span id="cb8-54"><a href="#cb8-54" aria-hidden="true" tabindex="-1"></a>}</span>
-<span id="cb8-55"><a href="#cb8-55" aria-hidden="true" tabindex="-1"></a></span>
-<span id="cb8-56"><a href="#cb8-56" aria-hidden="true" tabindex="-1"></a><span class="co"># 3. Iterar la función sobre cada estación usando purrr::walk</span></span>
-<span id="cb8-57"><a href="#cb8-57" aria-hidden="true" tabindex="-1"></a><span class="fu">walk</span>(estaciones_lista, generar_boxplot)</span></code><button title="Copiar al portapapeles" class="code-copy-button"><i class="bi"></i></button></pre></div>
+<span id="cb8-51"><a href="#cb8-51" aria-hidden="true" tabindex="-1"></a>  nombre_archivo <span class="ot">&lt;-</span> <span class="fu">paste0</span>(<span class="st">"boxplot_"</span>, nombre_limpio, <span class="st">".png"</span>)</span>
+<span id="cb8-52"><a href="#cb8-52" aria-hidden="true" tabindex="-1"></a>  </span>
+<span id="cb8-53"><a href="#cb8-53" aria-hidden="true" tabindex="-1"></a>  <span class="fu">png</span>(<span class="fu">path</span>(dir_figuras, nombre_archivo), <span class="at">width =</span> <span class="dv">800</span>, <span class="at">height =</span> <span class="dv">500</span>)</span>
+<span id="cb8-54"><a href="#cb8-54" aria-hidden="true" tabindex="-1"></a>  <span class="fu">dibujar</span>()</span>
+<span id="cb8-55"><a href="#cb8-55" aria-hidden="true" tabindex="-1"></a>  <span class="fu">dev.off</span>()</span>
+<span id="cb8-56"><a href="#cb8-56" aria-hidden="true" tabindex="-1"></a>}</span>
+<span id="cb8-57"><a href="#cb8-57" aria-hidden="true" tabindex="-1"></a></span>
+<span id="cb8-58"><a href="#cb8-58" aria-hidden="true" tabindex="-1"></a><span class="co"># 3. Iterar la función sobre cada estación usando purrr::walk</span></span>
+<span id="cb8-59"><a href="#cb8-59" aria-hidden="true" tabindex="-1"></a><span class="fu">walk</span>(estaciones_lista, generar_boxplot)</span></code><button title="Copiar al portapapeles" class="code-copy-button"><i class="bi"></i></button></pre></div>
 </details>
 <div class="cell-output-display">
 <div id="fig-boxplot-1" class="quarto-float quarto-figure quarto-figure-center anchored">
@@ -441,7 +435,7 @@ Figura&nbsp;2: Distribución de precipitación mensual (1970-2015)
 <span id="cb9-17"><a href="#cb9-17" aria-hidden="true" tabindex="-1"></a>      <span class="at">na.translate =</span> <span class="cn">FALSE</span> </span>
 <span id="cb9-18"><a href="#cb9-18" aria-hidden="true" tabindex="-1"></a>    ) <span class="sc">+</span></span>
 <span id="cb9-19"><a href="#cb9-19" aria-hidden="true" tabindex="-1"></a>    </span>
-<span id="cb9-20"><a href="#cb9-20" aria-hidden="true" tabindex="-1"></a>    <span class="co"># MODIFICACIÓN: Forzar que aparezcan todos los números enteros en el eje Y</span></span>
+<span id="cb9-20"><a href="#cb9-20" aria-hidden="true" tabindex="-1"></a>    <span class="co"># Eje Y con enteros forzados</span></span>
 <span id="cb9-21"><a href="#cb9-21" aria-hidden="true" tabindex="-1"></a>    <span class="fu">scale_y_continuous</span>(<span class="at">breaks =</span> <span class="fu">seq</span>(<span class="sc">-</span><span class="dv">10</span>, <span class="dv">10</span>, <span class="dv">1</span>)) <span class="sc">+</span></span>
 <span id="cb9-22"><a href="#cb9-22" aria-hidden="true" tabindex="-1"></a>    </span>
 <span id="cb9-23"><a href="#cb9-23" aria-hidden="true" tabindex="-1"></a>    <span class="fu">labs</span>(<span class="at">title =</span> titulo, <span class="at">x =</span> <span class="st">"Año"</span>, <span class="at">y =</span> <span class="st">"SPEI"</span>) <span class="sc">+</span></span>
